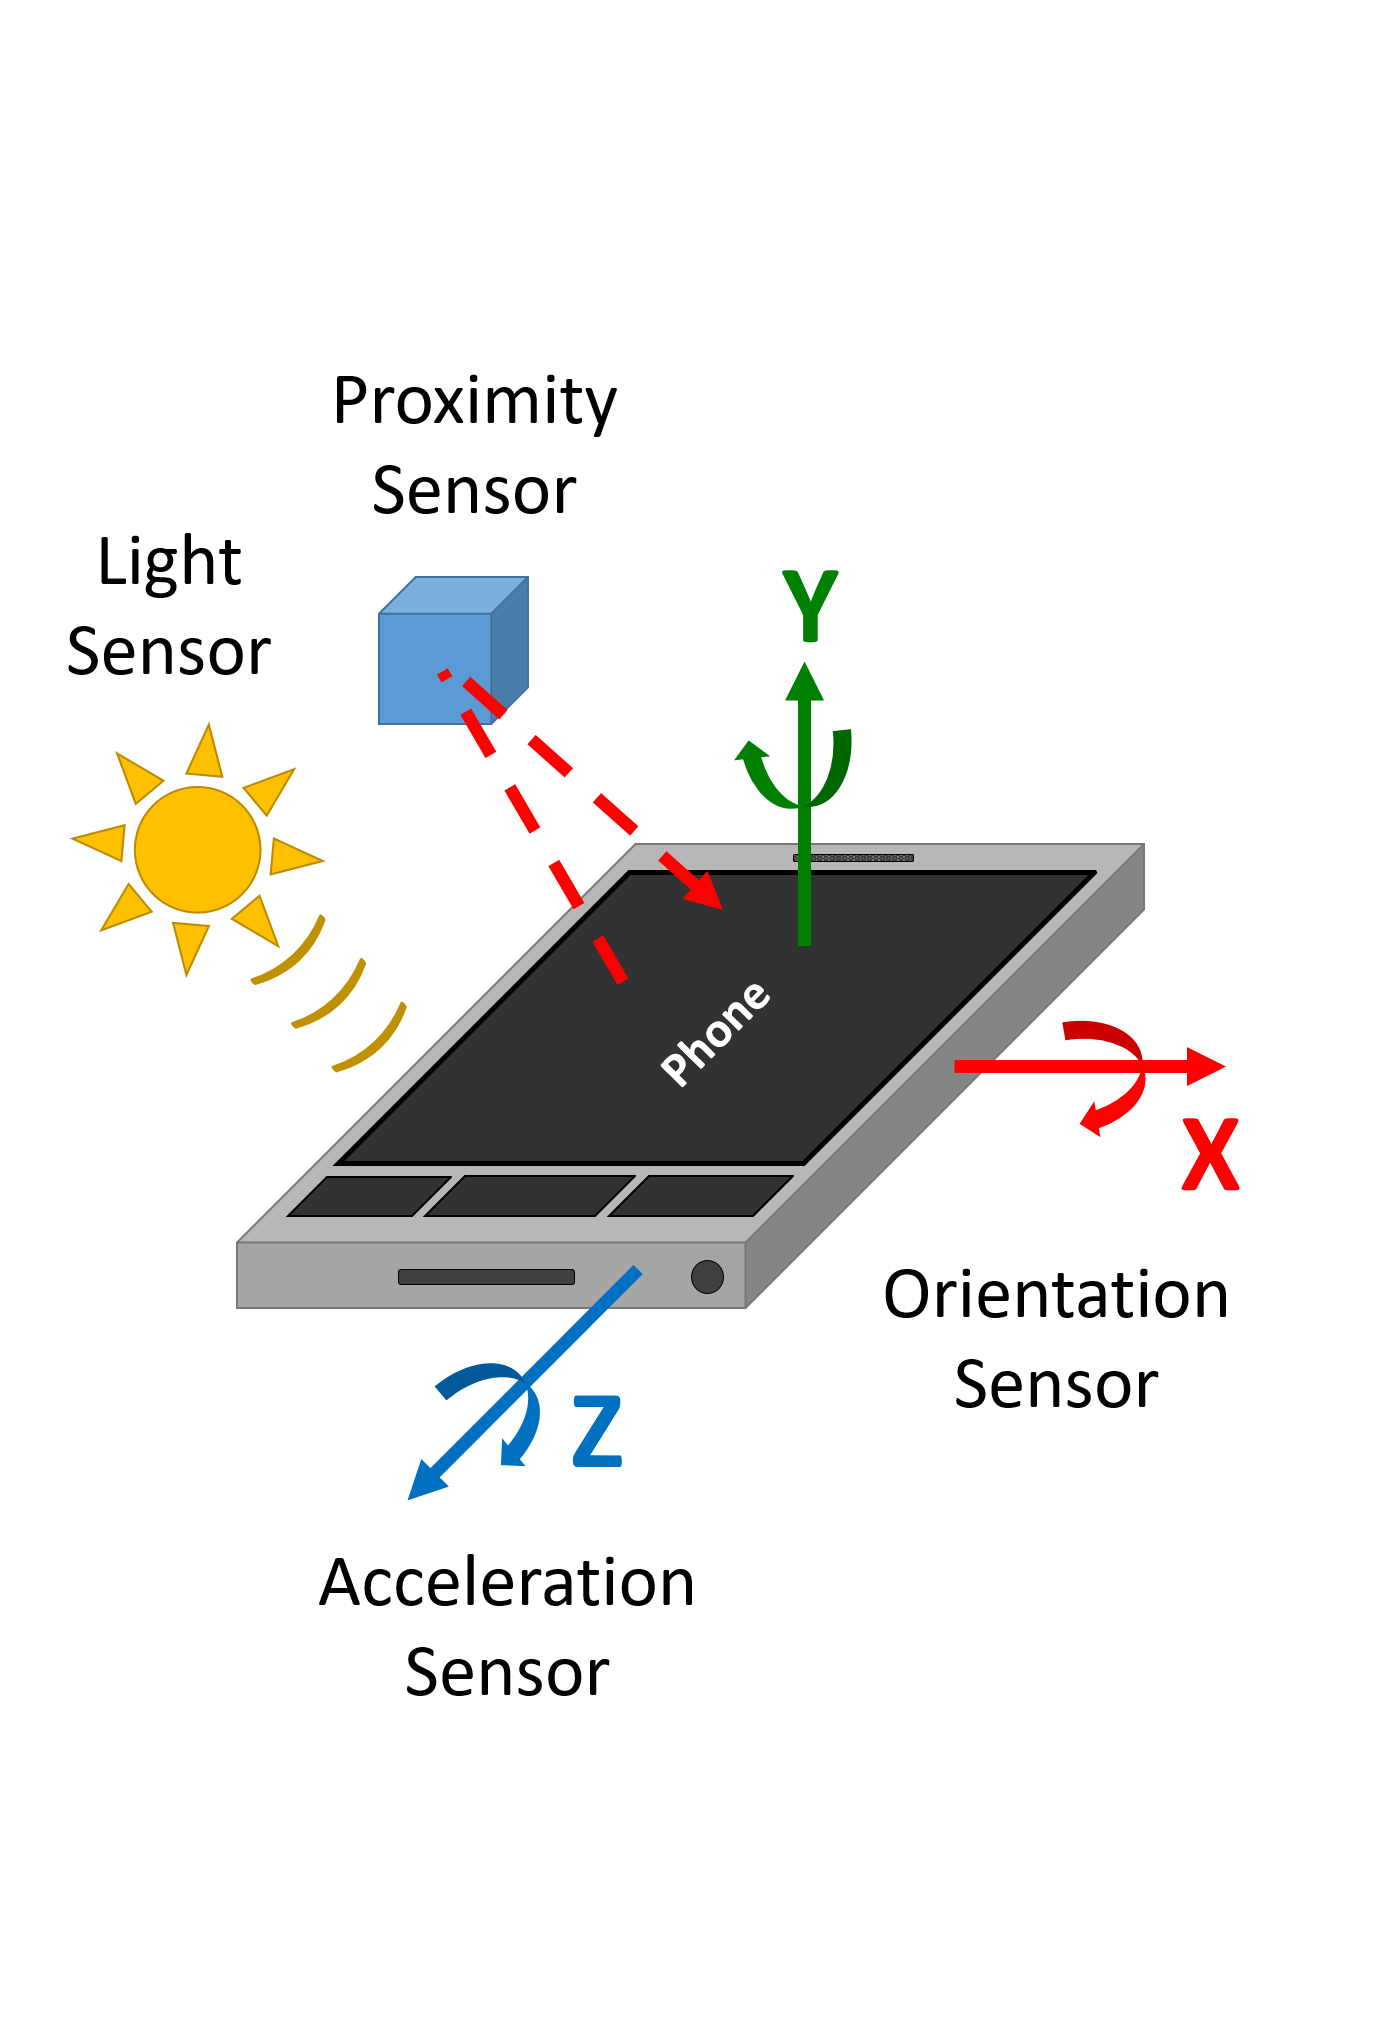
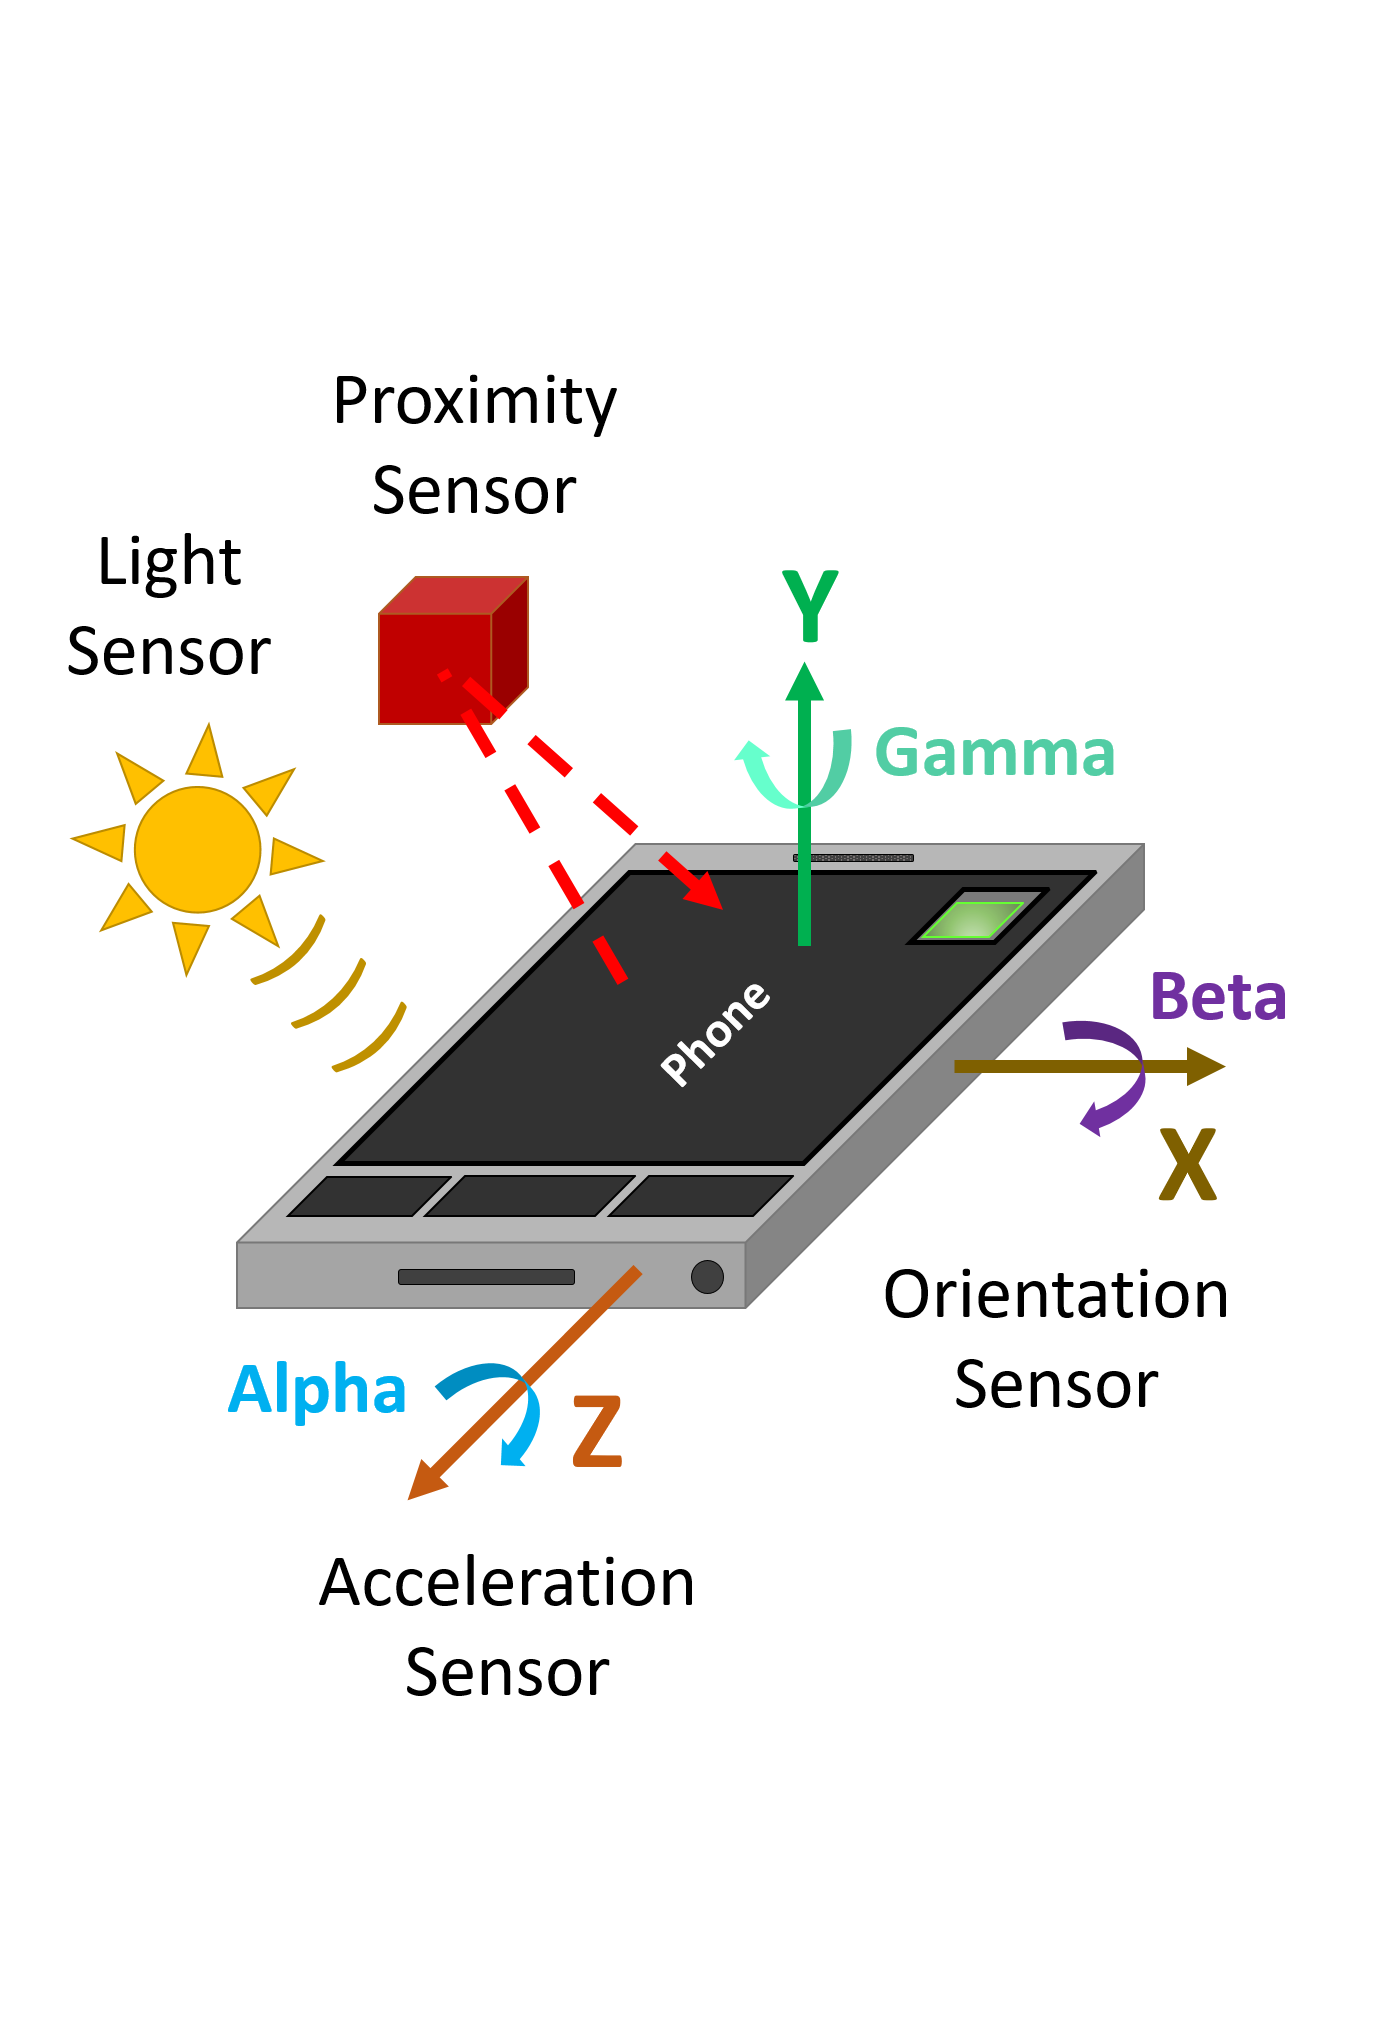
Updated instructions; added a more intuitive image

diff --git a/IOT Demo/IOT Demo/App/Views/chartController.js b/IOT Demo/IOT Demo/App/Views/chartController.js
@@ -63,7 +63,7 @@ app.controller('chartController', ['$scope', '$http', '$interval', '$stateParams
         "marginTop": 10,
         "marginBottom": 55,
         "dataDateFormat": "YYYY-MM-DD HH:NN:SS",
-        "backgroundColor": "#303030",
+        "backgroundColor": "#2e2e2e",
         "backgroundAlpha": 1,
         "valueAxes": [{
             "axisAlpha": 1,
@@ -79,13 +79,15 @@ app.controller('chartController', ['$scope', '$http', '$interval', '$stateParams
             "categoryBalloonColor": "#202020"
         },
         "legend": {
-            "useGraphSettings": false,
+            "useGraphSettings": true,
             "labelText": "[[title]]",
             "valueText": "",
-            "fontSize": 9,
+            "fontSize": 10,
             "equalWidths": false,
-            "markerSize": 9,
-            "color": "white",
+			"markerLabelGap":0,
+            "markerSize": 0,
+            //"color": "white",
+			"useMarkerColorForLabels":true,
             "autoMargins": false,
             "marginTop": 0,
             "marginBottom": 5,

diff --git a/IOT Demo/IOT Demo/App/Views/chartAndTableWrapperView.html b/IOT Demo/IOT Demo/App/Views/chartAndTableWrapperView.html
@@ -43,7 +43,7 @@
                     <button type="button" class="close" data-dismiss="modal">&times;</button>
                 </div>
                 <div class="modal-body" id="shakeMeModalBodyText">
-					The bar chart that you see now is driven by sensor data collected from your own mobile device!  Try shaking your device to generate new X, Y, and Z accelerometer data; that data will be written to the gateway PI Server and then visualized here on this chart! 
+					The bar chart that you see now is driven by sensor data collected from your own mobile device!  Try shaking your device to generate new X, Y, and Z accelerometer data--or try generating new light level and proximity data by covering up the front of the phone with your hand. That new sensor data will be written to the gateway PI Server and then visualized here on this chart! 
 				</div>
                 <div class="modal-footer">
                     <button type="button" class="btn btn-default" data-dismiss="modal">Close</button>

diff --git a/IOT Demo/IOT Demo/App/Services/dataService.js b/IOT Demo/IOT Demo/App/Services/dataService.js
@@ -285,7 +285,7 @@ angular.module('iotdemoApp')
 		document.getElementById("loadingSpinner").style.visibility = "hidden"; 
 		// Set the modal body text to the error
 		console.log(response);
-		document.getElementById("errorMessageModalBodyText").innerHTML = "Error when " + attemptedTask + ":<br/><br/>" + response.data + "<br />" + "Please verify that the PI Web API Service is running, that the PI System is running, and that the target AF object exists.";
+		document.getElementById("errorMessageModalBodyText").innerHTML = "Error when " + attemptedTask + ":<br/><br/>" + response.data + "<br />" + "Please verify that the PI Web API Service is running, that the PI System is running, and that the target AF object exists.  If this error persists, please try restarting the PI Web API service.";
 		// Open the modal
 		$("#errorMessageModal").modal();
 	}
